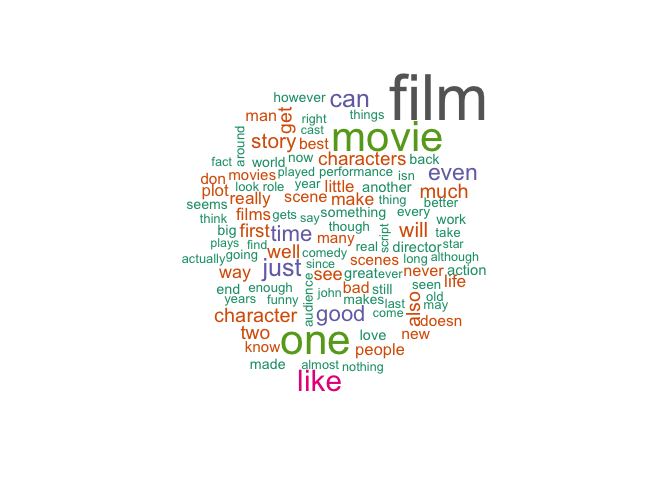
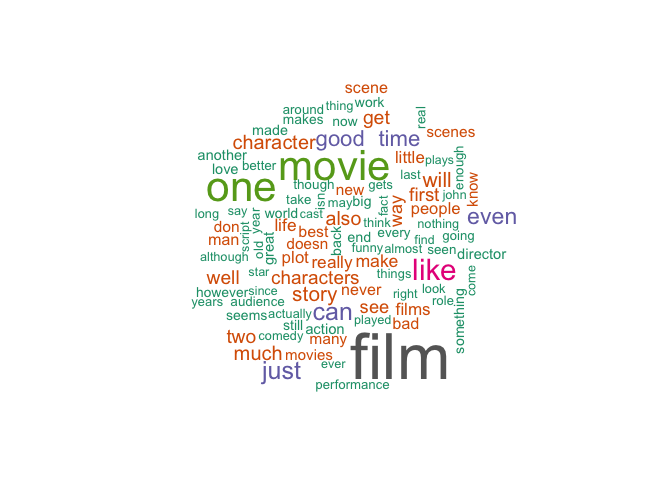
Mejoras en la descripción del taller

Changed region(s): [[0.25, 0.1562, 0.7812, 0.8125]]

diff --git a/clase_1/01_mineria_textos-peliculas.md b/clase_1/01_mineria_textos-peliculas.md
@@ -5,7 +5,12 @@ Roberto Muñoz
 
 -   [Ajustamos el locale del sistema de acuerdo al OS del computador](#ajustamos-el-locale-del-sistema-de-acuerdo-al-os-del-computador)
 -   [Instalamos y cargamos las librerías que usaremos](#instalamos-y-cargamos-las-librerias-que-usaremos)
--   [Lectura de datos](#lectura-de-datos)
+-   [Preparación y análisis de datos](#preparacion-y-analisis-de-datos)
+    -   [Lectura de datos](#lectura-de-datos)
+    -   [Creación del corpus](#creacion-del-corpus)
+    -   [Creación de matriz DTM](#creacion-de-matriz-dtm)
+    -   [Creación de nube de palabras](#creacion-de-nube-de-palabras)
+    -   [Creación de matriz DTM usando tf–idf](#creacion-de-matriz-dtm-usando-tfidf)
 
 Ajustamos el locale del sistema de acuerdo al OS del computador
 ===============================================================
@@ -51,8 +56,11 @@ install_load_library( c('tm', 'SnowballC', 'wordcloud', 'topicmodels') )
 
     ## Loading required package: topicmodels
 
+Preparación y análisis de datos
+===============================
+
 Lectura de datos
-================
+----------------
 
 Usaremos una base de datos que contiene 2 mil críticas de películas de cine. Las críticas están escritas en inglés, fueron y fueron publicadas por
 
@@ -61,7 +69,10 @@ reviews = read.csv("https://github.com/rpmunoz/topicos_ingenieria_2/raw/master/c
 #View(reviews)
 ```
 
-El dataset review dataset contiene dos campos: valoracion (Pos y Neg) y contenido. Transformamos este dataset en un corpus.
+Creación del corpus
+-------------------
+
+El dataset review dataset contiene dos campos: valoracion (Pos y Neg) y contenido. Usaremos el campo el campo contenido para definir el Corpus (conjunto de documentos).
 
 ``` r
 review_corpus = Corpus(VectorSource(reviews$contenido))
@@ -86,6 +97,9 @@ inspect(review_corpus[3])
     ## Content:  documents: 1
     ## 
     ## [1]  ve got mail works alot better deserves order make film success cast two extremely popular attractive stars share screen two hours collect profits real acting involved original inventive bone body basically complete shoot shop around corner adding modern twists essentially goes defies concepts good contemporary filmmaking overly sentimental times terribly mushy mention manipulative oh enjoyable manipulation must something casting manipulation makes movie work well absolutely hated previous ryanhanks teaming sleepless seattle couldn t directing films helmed woman haven t quite yet figured liked much ve got mail really important like something much even question storyline cliched come tom hanks plays joe fox insanely likeable owner discount book chain meg ryan plays kathleen kelley even insanely likeable proprietor family run children book shop called nice homage shop around corner fox kelley soon become bitter rivals new fox books store opening right across block small business little know already love internet neither party knows person true identity rest story isn t important serve mere backdrop two stars share screen sure mildly interesting subplots fail comparison utter cuteness main relationship course leads predictable climax foreseeable ending damn cute well done doubt movie entire year contains scene evokes much pure joy part ryan discovers true identity online love filled lack better word happiness first time year actually left theater smiling
+
+Creación de matriz DTM
+----------------------
 
 Para analizar datos en forma de texto, usamos una representación del tipo Document-Term Matrix (DTM): Documentos como filas, palabras como columnas, frecuencia de las palabras en el documento como valores. Debido al número de palabras únicas en el corpus esta matriz puede ser muy grande.
 
@@ -150,7 +164,10 @@ inspect(review_dtm[1,1:20])
     ## Docs accent acting acts actually adapted alan albert allen almost amounts
     ##    1      2      1    1        1       1    1      1     1      1       1
 
-Construyamos una nuebe palabras usando la función findFreqTerms() y usemos solamente las palabras que tienen una frecuencia absoluta de al menos 1000.
+Creación de nube de palabras
+----------------------------
+
+Construyamos una nube palabras usando la función findFreqTerms() y usemos solamente las palabras que tienen una frecuencia absoluta de al menos 1000.
 
 ``` r
 findFreqTerms(review_dtm, 1000)
@@ -179,7 +196,10 @@ wordcloud(rownames(freq), freq[,1], max.words=100, colors=brewer.pal(8, "Dark2")
 
 Un podría argumentar que en la nube de palabras, los términos one, film y movie no son del todo relavantes, pues ya sabemos que el dataset es acerca de películas.
 
-En este tipo de situaciones es conveniente usar la métrica tf-idf (term frequency-inverse document frequency) en vez de la frecuencia de los términos como valor en la matriz DTM. La métrica tf-idf mide la importancia relativa de las palabras en un documento.
+Creación de matriz DTM usando tf–idf
+------------------------------------
+
+En este tipo de situaciones es conveniente usar la estadística tf-idf (term frequency-inverse document frequency) en vez de la frecuencia de los términos como valor en la matriz DTM. La métrica tf-idf mide la importancia relativa de las palabras en un documento.
 
 ``` r
 review_dtm_tfidf <- DocumentTermMatrix(review_corpus, control = list(weighting = weightTfIdf))
